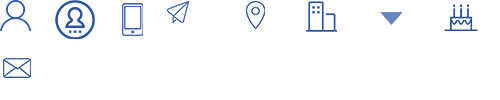
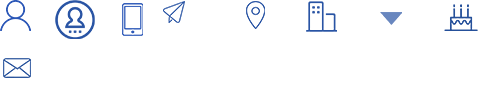
bug

Changed region(s): [[0.3, 0.0, 0.39, 0.24]]

diff --git a/dls/css/index.css b/dls/css/index.css
@@ -141,10 +141,11 @@
 	border: 0;
 }
 .form-box .small-input .count-time{
-	padding-left: 17px;
+	padding-left: 15px;
 	width: 57px;
 	font-size: 0.8em;
-	background: url('../img/index_icon.png') no-repeat -118px 3px/640% #fff;
+	padding-right: 0;
+	background: url('../img/index_icon.png') no-repeat -108px 5px/600% #fff;
 }
 .form-box .select-box{
 	float: left;
@@ -225,7 +226,7 @@
 	line-height: 30px;
 	color: #012269;
 	padding: 0;
-	font-size: 1.2em;
+	font-size: 0.8em;
 	background: #88abda;
 	border: 0;
 
@@ -242,7 +243,7 @@
 }
 .agreement-pop p.agreement-p{
 	color: #fff;
-	font-size: 0.8em;
+	font-size: 1em;
 	width: 250px;
 	left: 50%;
 	margin-left: -125px;
@@ -625,9 +626,9 @@
 }
 .footer-btn li{
 	float: left;
-	background-color: #305290;
 	height: 54px;
-	width: 25%;
+	width: 24%;
+	padding:0 0.5%;
 	text-align: center;
 }
 .footer-btn li a{
@@ -635,9 +636,8 @@
 	display: block;
 	width: 100%;
 	height: 100%;
+	background-color: #305290;
 	line-height: 47px;
-	border-left: 2px solid #012269;
-	border-right: 2px solid #012269;
 }
 .footer-btn li a.activity-btn{
 	border-left: 0 none;
@@ -752,13 +752,13 @@
 
 }
 .form-box .select-box.birthday-select {
-	width: 17%;
+	width: 16%;
 }
 .form-box .select-box.birthday-select select{
 	width: 100%;
 }
 .form-box .select-box.birthday-select-short {
-	width: 8%;
+	width: 9%;
 }
 .form-box .select-box.birthday-select-short select{
 	width: 100%;
@@ -863,7 +863,7 @@
 	line-height: 1.5em;
 }
 .form-upload .submit-box{
-	padding-top: 70px;
+	padding-top: 10%;
 	text-align: center;
 }
 .form-upload .submit-box button{
@@ -1299,4 +1299,11 @@
 .information-position{
 	position:absolute;
 	top: 50%;
+}
+.form-box .small-input em.em-icon{
+	width:28px;
+	height:26px;
+	background-size:798%;
+	background-position: -158px 7px; 
+	padding-right:0;
 }

diff --git a/dls/verify_3.html b/dls/verify_3.html
@@ -43,7 +43,7 @@
 				<!-- status-1     状态是：审核中 -->
 				<!-- status-2     状态是：认证失败 -->
 				<!-- status-3     状态是：认证成功 -->
-				<form class="form-upload  status-3">
+				<form class="form-upload  status-2">
 					
 					<div class="uploaded-image center-box">
 						<i></i>
@@ -51,9 +51,11 @@
 	                    <div class="ul-box">
 		                    <ul>
 		                        <li>
+			                  		
 			                  		<a href="javascript:void(0);" class="close-btn"></a>
 			                  		<strong class="ok-icon"></strong>
 			                    	<img src="img/verigy_1.jpg">   
+		                     
 		                        </li>
 		                        <li>
 		                            <div class="upload-box">
@@ -94,14 +96,14 @@
 					</div>
 					<div class="submit-box">
 						<!-- status-0时显示确认 -->
-						<button type="button" class="up-btn">确&nbsp;&nbsp;&nbsp;&nbsp;认</button>
+						<!-- <button type="button" class="up-btn">确&nbsp;&nbsp;&nbsp;&nbsp;认</button> -->
 						<!-- status-1时显示灰色重新上传-->
 						<!-- <button type="button"  disabled>重新上传</button> -->
 						<!-- status-2时显示重新上传 -->
-						<!-- <button type="button" class="up-btn">重新上传</button> -->
+						<button type="button" class="up-btn">重新上传</button>
 						<!-- status-3时显示重新上传以及 -->
-						<!-- <button type="button" class="short-btn up-btn">重新上传</button>
-						<button type="button">确&nbsp;&nbsp;认</button> -->
+						<!-- <button type="button" class="short-btn up-btn">重新上传</button> -->
+						<!-- <button type="button">确&nbsp;&nbsp;认</button> -->
 
 					</div>
 				</form>

diff --git a/dls/verify_2.html b/dls/verify_2.html
@@ -43,7 +43,7 @@
 				<!-- status-1     状态是：审核中 -->
 				<!-- status-2     状态是：认证失败 -->
 				<!-- status-3     状态是：认证成功 -->
-				<form class="form-upload  status-3">
+				<form class="form-upload  status-1">
 					
 					<div class="uploaded-image center-box">
 						<i></i>
@@ -51,8 +51,8 @@
 	                    <div class="ul-box">
 		                    <ul>
 		                        <li>
-			                  		<a href="javascript:void(0);" class="close-btn"></a>
-			                  		<strong class="ok-icon"></strong>
+			    
+			                  		
 			                    	<img src="img/verigy_1.jpg">   
 		                        </li>
 		                        <li>
@@ -94,9 +94,9 @@
 					</div>
 					<div class="submit-box">
 						<!-- status-0时显示确认 -->
-						<button type="button" class="up-btn">确&nbsp;&nbsp;&nbsp;&nbsp;认</button>
+						<!-- <button type="button" class="up-btn">确&nbsp;&nbsp;&nbsp;&nbsp;认</button> -->
 						<!-- status-1时显示灰色重新上传-->
-						<!-- <button type="button"  disabled>重新上传</button> -->
+						<button type="button"  disabled>重新上传</button>
 						<!-- status-2时显示重新上传 -->
 						<!-- <button type="button" class="up-btn">重新上传</button> -->
 						<!-- status-3时显示重新上传以及 -->
@@ -133,7 +133,6 @@
 			$('.uploaded-image a.close-btn').bind('touchend',function(){
 				var str = '<div class="upload-box"><em></em><input class="update"type="file" multiple name="myfile[]"type="file"/></div>'
 				$(this).parents('li').html(str)
-				return false;
 			})
 
 			$('.standard-box a').bind('touchend',function(){

diff --git a/dls/verify_4.html b/dls/verify_4.html
@@ -53,7 +53,7 @@
 		                        <li>
 			                  		<a href="javascript:void(0);" class="close-btn"></a>
 			                  		<strong class="ok-icon"></strong>
-			                    	<img src="img/verigy_1.jpg">   
+			                    	<img src="img/verigy_1.jpg"> 
 		                        </li>
 		                        <li>
 		                            <div class="upload-box">
@@ -94,14 +94,14 @@
 					</div>
 					<div class="submit-box">
 						<!-- status-0时显示确认 -->
-						<button type="button" class="up-btn">确&nbsp;&nbsp;&nbsp;&nbsp;认</button>
+						<!-- <button type="button" class="up-btn">确&nbsp;&nbsp;&nbsp;&nbsp;认</button> -->
 						<!-- status-1时显示灰色重新上传-->
 						<!-- <button type="button"  disabled>重新上传</button> -->
 						<!-- status-2时显示重新上传 -->
 						<!-- <button type="button" class="up-btn">重新上传</button> -->
 						<!-- status-3时显示重新上传以及 -->
-						<!-- <button type="button" class="short-btn up-btn">重新上传</button>
-						<button type="button">确&nbsp;&nbsp;认</button> -->
+						<button type="button" class="short-btn up-btn">重新上传</button>
+						<button type="button">确&nbsp;&nbsp;认</button>
 
 					</div>
 				</form>
@@ -133,7 +133,6 @@
 			$('.uploaded-image a.close-btn').bind('touchend',function(){
 				var str = '<div class="upload-box"><em></em><input class="update"type="file" multiple name="myfile[]"type="file"/></div>'
 				$(this).parents('li').html(str)
-				return false;
 			})
 
 			$('.standard-box a').bind('touchend',function(){

diff --git a/dls/verify_1.html b/dls/verify_1.html
@@ -43,7 +43,7 @@
 				<!-- status-1     状态是：审核中 -->
 				<!-- status-2     状态是：认证失败 -->
 				<!-- status-3     状态是：认证成功 -->
-				<form class="form-upload  status-3">
+				<form class="form-upload  status-0">
 					
 					<div class="uploaded-image center-box">
 						<i></i>
@@ -51,9 +51,11 @@
 	                    <div class="ul-box">
 		                    <ul>
 		                        <li>
-			                  		<a href="javascript:void(0);" class="close-btn"></a>
-			                  		<strong class="ok-icon"></strong>
-			                    	<img src="img/verigy_1.jpg">   
+			                  		<div class="upload-box">
+		                            	
+		                                <input class="update"type="file"  multiple name="myfile[]"type="file"/>
+		                                <em></em>
+		                            </div>
 		                        </li>
 		                        <li>
 		                            <div class="upload-box">
@@ -133,7 +135,6 @@
 			$('.uploaded-image a.close-btn').bind('touchend',function(){
 				var str = '<div class="upload-box"><em></em><input class="update"type="file" multiple name="myfile[]"type="file"/></div>'
 				$(this).parents('li').html(str)
-				return false;
 			})
 
 			$('.standard-box a').bind('touchend',function(){

diff --git a/dls/information.html b/dls/information.html
@@ -114,20 +114,20 @@
 							</div>
 							<em>市</em>
 						</div>
-						<div class="small-input"  style="height:29px">
-							<div class="small-box" style="width:67%">
+						<div class="small-input"style="overflow:hidden" >
+							<div class="small-box" style="width:67%;">
 								<label for="job" class="label-job">job</label>
-								<input type="text" placeholder="请输入工作单位" class="job-input" style="width:67%;">
+								<input type="text" placeholder="请输入工作单位" class="job-input" style="height:24px;width:59%;">
 
 							</div>
-							<div class="overflow-box select-box small-box" style="width:29%;height:82%">
-								<select style="width:29px;float:left"class="select-left">
+							<div class="overflow-box select-box small-box" style="width:29%;height:30px">
+								<select style="height:27px;width:36px;float:left"class="select-left">
 									<option >年限</option>
-									<option >2006</option>
-									<option >1992</option>
-									<option >1991</option>
+									<option >1</option>
+									<option >2</option>
+									<option >3</option>
 								</select>
-								<em>年</em>
+								<em class="em-icon"style=""></em>
 							</div>
 						</div>
 						<div class="information-title center-box">

diff --git a/dls/invitation.html b/dls/invitation.html
@@ -74,7 +74,7 @@
         .invite-pop {
             width: 90%;
             height: 50%;
-            margin: 20% 5%;
+            margin: 7% 5%;
             color: #fff;
         }
 
@@ -139,7 +139,7 @@
             width: 100%;
             margin: 10px 0;
             text-align: center;
-            font-size: 0.5rem;
+            font-size: 0.8em;
         }
     </style>
 </head>
@@ -284,7 +284,7 @@
                 </li>
             </ul>
         </div>
-        <div class="btn-box close-js">
+        <div class="btn-box close-js" style="top:77%">
             <a href="javascript:void(0);">取&nbsp;&nbsp;&nbsp;消</a>
         </div>
     </div>

diff --git a/dls/css/style.css b/dls/css/style.css
@@ -11,6 +11,10 @@ p{padding: 0;margin: 0;}
 	background:url('../img/bg_1.jpg') no-repeat center bottom;
 	background-size: cover;
 }
+.bg-2{
+	background:url('../img/bg_2.jpg') no-repeat center bottom;
+	background-size: cover;
+}
 .back-btn{
 	width: 41%;
 	padding: 2%;

diff --git a/dls/center.html b/dls/center.html
@@ -21,7 +21,7 @@
 		<link rel="stylesheet" href="css/index.css">
 	</head>
 	<body>
-		<div class="pager bg-1">
+		<div class="pager bg-2">
 			<div class="element-box back-btn">
 				<a href=""><img src="img/back_btn.png"></a>
 			</div>
